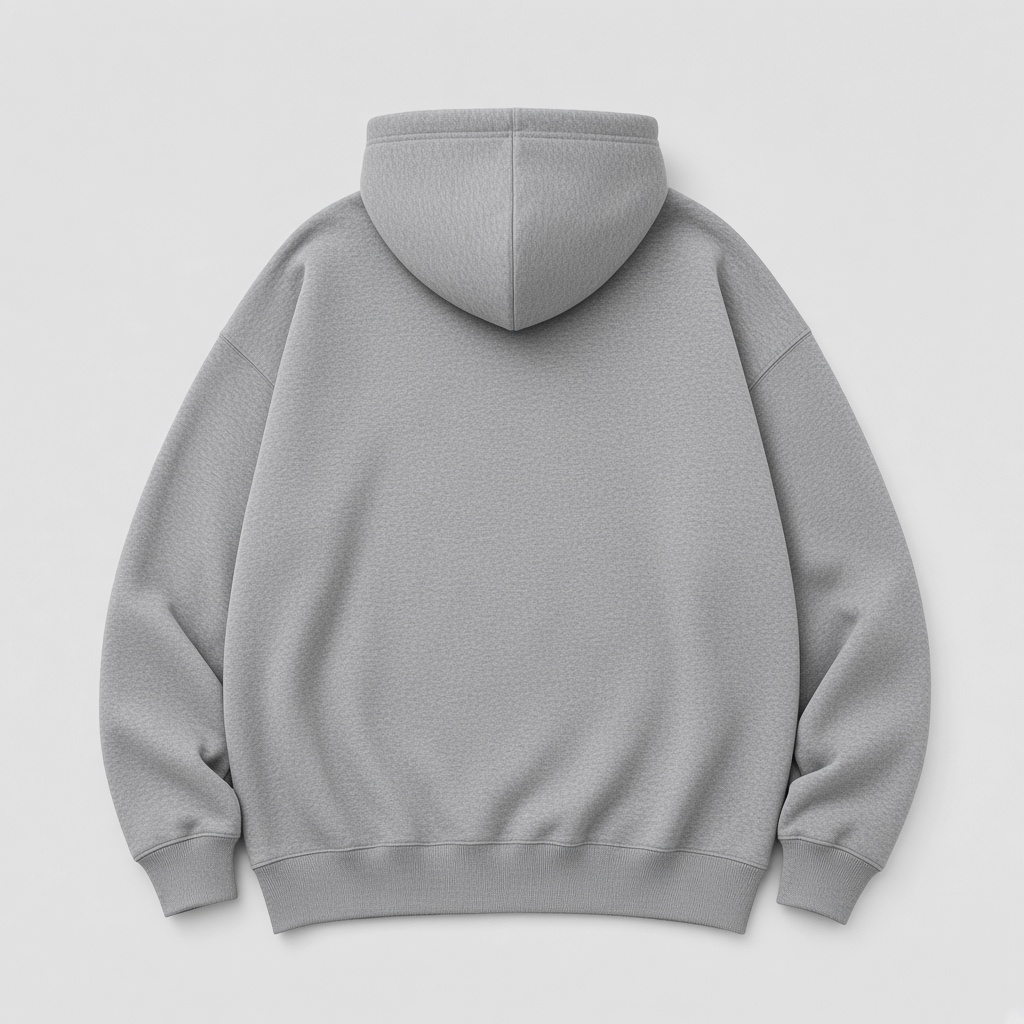
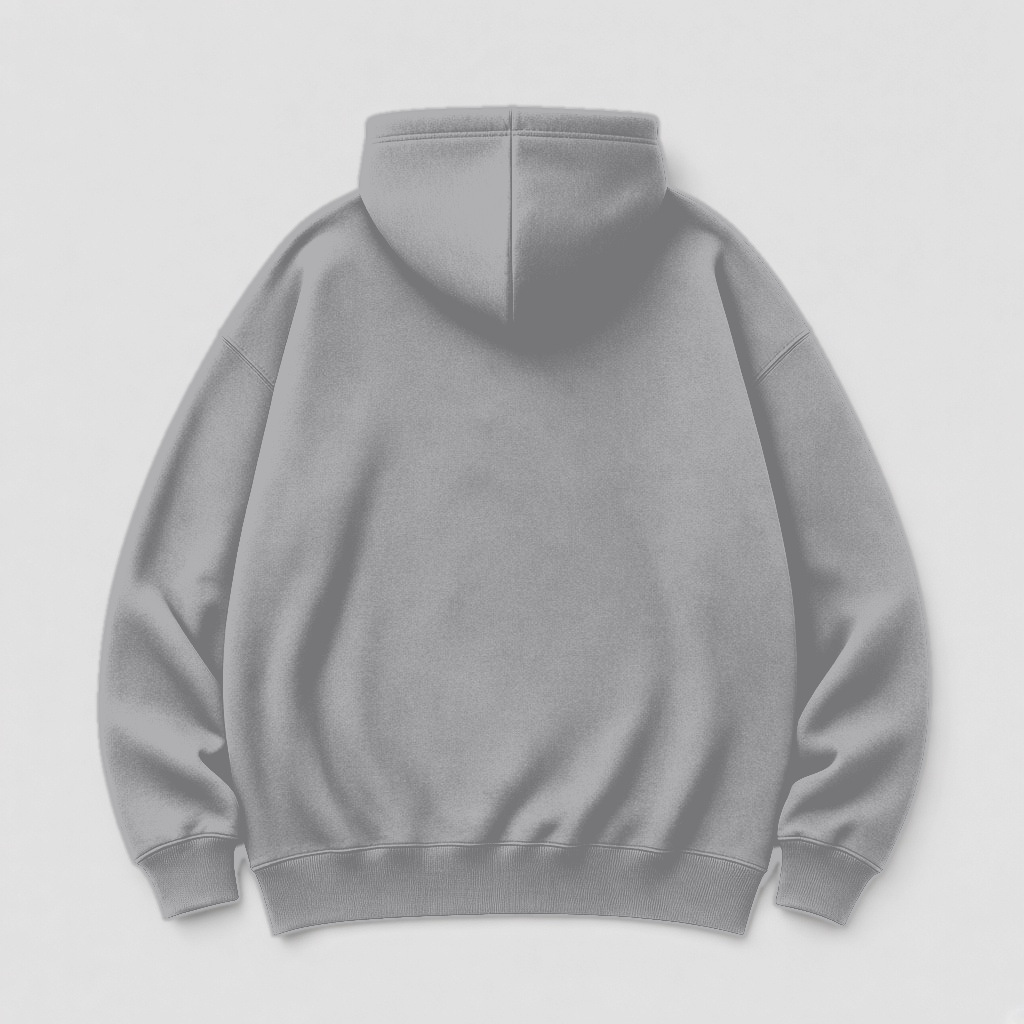
Show the same Atelier Hoodie in black, grey, and white.
Black keeps the original studio sweater. Grey and white are that same garment, and the white second photo is the back instead of another front. New filenames so a cached grey hoodie.jpg cannot load for black.

diff --git a/web/src/lib/apparel.test.ts b/web/src/lib/apparel.test.ts
@@ -41,22 +41,22 @@ test("The Atelier Hoodie ships in black, grey, and white with matching front and
   assert.ok(hoodie);
   assert.deepEqual(hoodie.colors, ["black", "grey", "white"]);
   assert.equal(hoodie.outOfStockColors, undefined);
-  assert.equal(hoodie.image, "/products/apparel/hoodie.jpg");
+  assert.equal(hoodie.image, "/products/apparel/hoodie-atelier-black-front.jpg");
   assert.deepEqual(getApparelImages(hoodie), [
-    "/products/apparel/hoodie.jpg",
-    "/products/apparel/hoodie-black-back.jpg",
+    "/products/apparel/hoodie-atelier-black-front.jpg",
+    "/products/apparel/hoodie-atelier-black-back.jpg",
   ]);
   assert.deepEqual(getApparelImagesForColor(hoodie, "black"), [
-    "/products/apparel/hoodie.jpg",
-    "/products/apparel/hoodie-black-back.jpg",
+    "/products/apparel/hoodie-atelier-black-front.jpg",
+    "/products/apparel/hoodie-atelier-black-back.jpg",
   ]);
   assert.deepEqual(getApparelImagesForColor(hoodie, "grey"), [
-    "/products/apparel/hoodie-grey-front.jpg",
-    "/products/apparel/hoodie-grey-back.jpg",
+    "/products/apparel/hoodie-atelier-grey-front.jpg",
+    "/products/apparel/hoodie-atelier-grey-back.jpg",
   ]);
   assert.deepEqual(getApparelImagesForColor(hoodie, "white"), [
-    "/products/apparel/hoodie-white-front.jpg",
-    "/products/apparel/hoodie-white-back.jpg",
+    "/products/apparel/hoodie-atelier-white-front.jpg",
+    "/products/apparel/hoodie-atelier-white-back.jpg",
   ]);
   assert.equal(isApparelColorOutOfStock(hoodie, "black"), false);
   assert.equal(isApparelColorOutOfStock(hoodie, "grey"), false);

diff --git a/web/src/lib/apparel.ts b/web/src/lib/apparel.ts
@@ -240,23 +240,23 @@ export const APPAREL_CATALOG: ApparelCatalogItem[] = [
       XL: 20500, // 60% off → $82
       XXL: 21500, // 60% off → $86
     },
-    image: "/products/apparel/hoodie.jpg",
+    image: "/products/apparel/hoodie-atelier-black-front.jpg",
     images: [
-      "/products/apparel/hoodie.jpg",
-      "/products/apparel/hoodie-black-back.jpg",
+      "/products/apparel/hoodie-atelier-black-front.jpg",
+      "/products/apparel/hoodie-atelier-black-back.jpg",
     ],
     colorImages: {
       black: [
-        "/products/apparel/hoodie.jpg",
-        "/products/apparel/hoodie-black-back.jpg",
+        "/products/apparel/hoodie-atelier-black-front.jpg",
+        "/products/apparel/hoodie-atelier-black-back.jpg",
       ],
       grey: [
-        "/products/apparel/hoodie-grey-front.jpg",
-        "/products/apparel/hoodie-grey-back.jpg",
+        "/products/apparel/hoodie-atelier-grey-front.jpg",
+        "/products/apparel/hoodie-atelier-grey-back.jpg",
       ],
       white: [
-        "/products/apparel/hoodie-white-front.jpg",
-        "/products/apparel/hoodie-white-back.jpg",
+        "/products/apparel/hoodie-atelier-white-front.jpg",
+        "/products/apparel/hoodie-atelier-white-back.jpg",
       ],
     },
     skuPrefix: "APP-HOOD",
